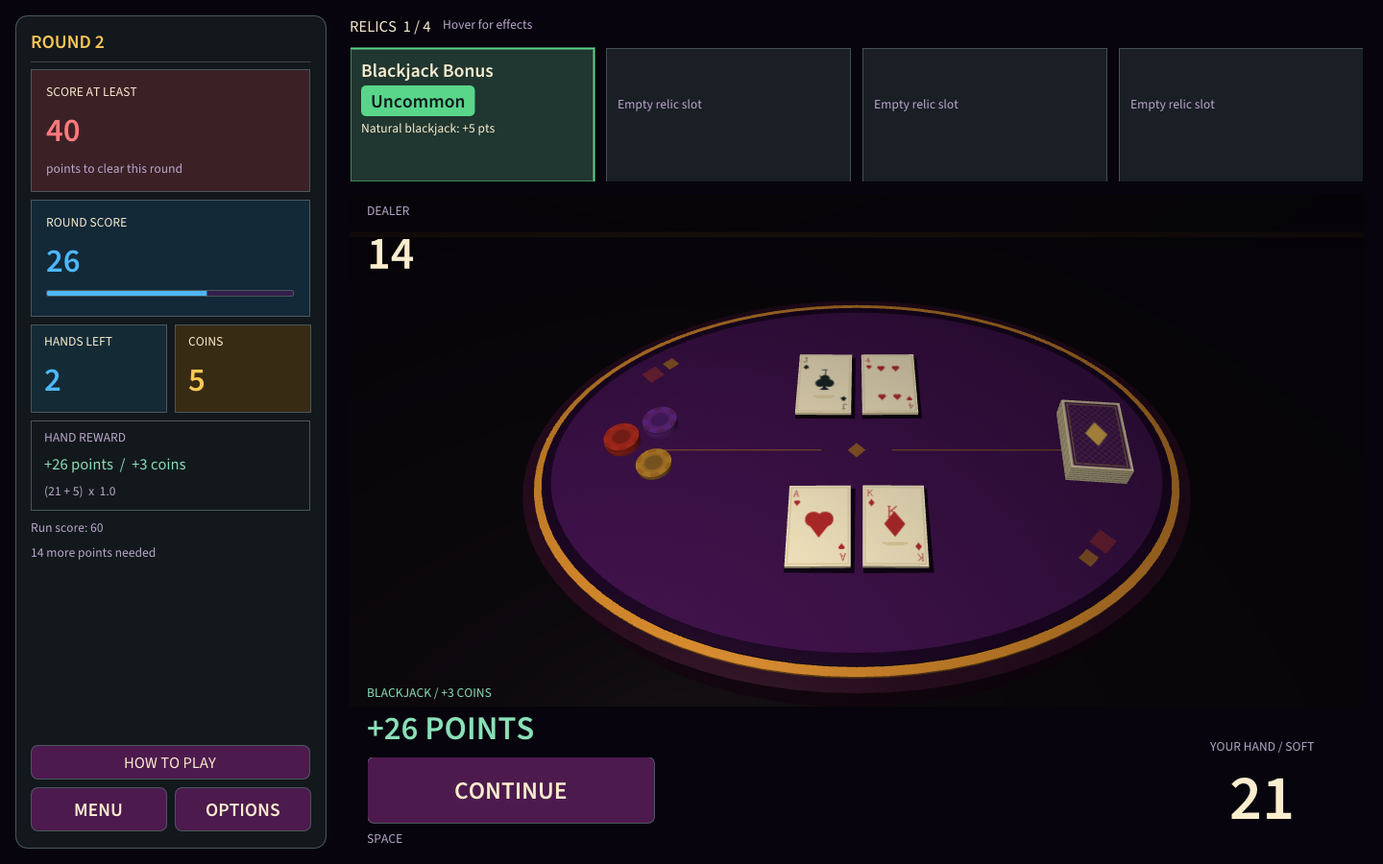
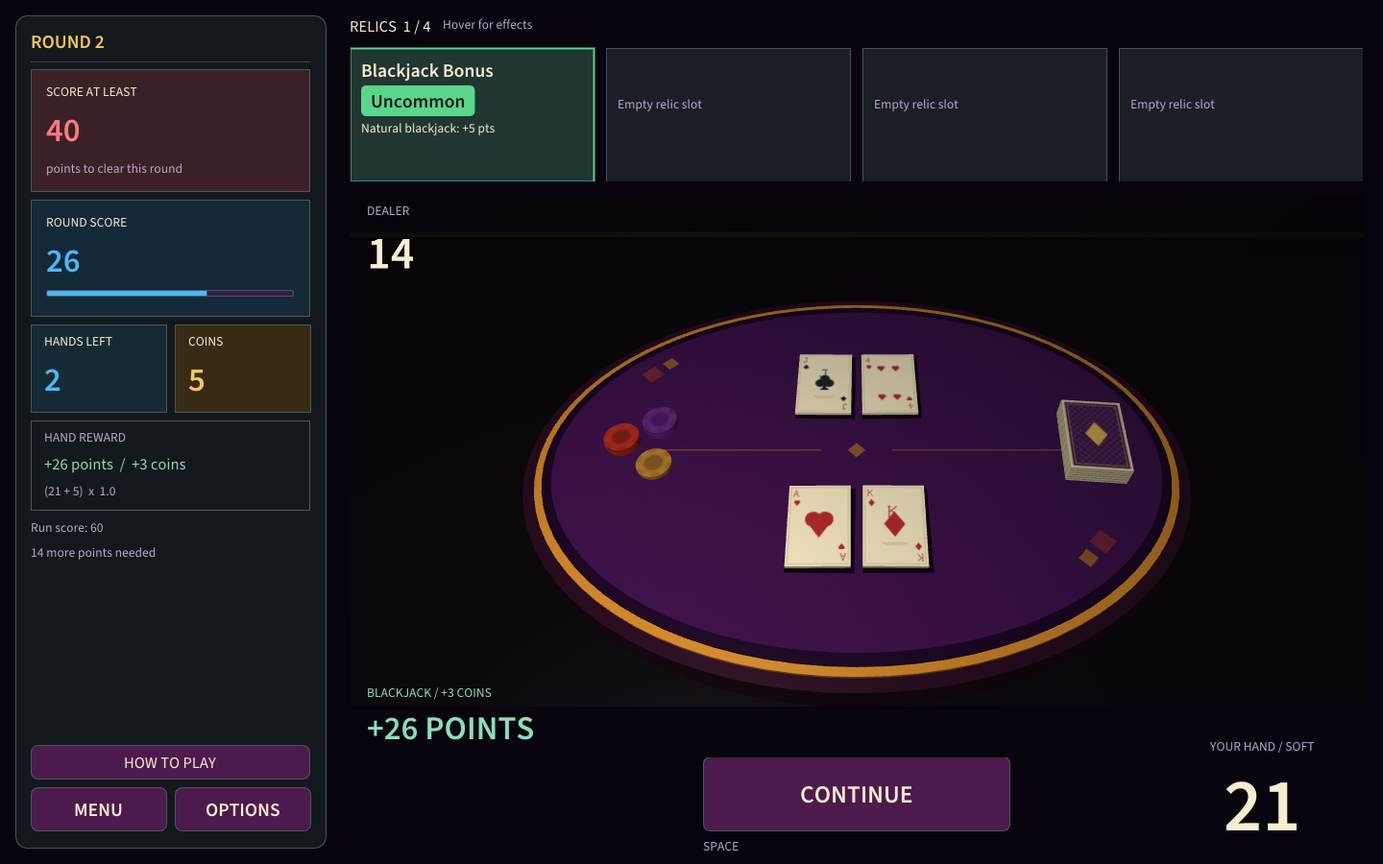
ui: center controls and simplify card gain feedback

Changed region(s): [[0.25, 0.8711, 0.75, 0.9956], [0.875, 0.9022, 0.9375, 0.9644]]

diff --git a/src/main.cpp b/src/main.cpp
@@ -198,7 +198,7 @@ struct Interface {
         button = io.Fonts->AddFontFromFileTTF(bold.c_str(), 26.0f, &font);
         menuButton = io.Fonts->AddFontFromFileTTF(bold.c_str(), 34.0f, &font);
         number = io.Fonts->AddFontFromFileTTF(bold.c_str(), 46.0f, &font);
-        largeNumber = io.Fonts->AddFontFromFileTTF(bold.c_str(), 88.0f, &font);
+        largeNumber = io.Fonts->AddFontFromFileTTF(bold.c_str(), 104.0f, &font);
         small = io.Fonts->AddFontFromFileTTF(body.c_str(), 18.0f, &font);
         if (!io.FontDefault || !heading || !title || !button || !menuButton || !number || !largeNumber || !small) {
             ImGui::DestroyContext();
@@ -475,8 +475,17 @@ TableLayout tableLayout(ImVec2 display) {
     return {sidebar, contentX, display.x - contentX - 20, 202, actionY - 212, actionY};
 }
 
+float controlsLeft(const TableLayout& layout) {
+    constexpr float width = 456;
+    const float tableCenter = layout.contentX + layout.contentWidth * .5f;
+    const float handCenter = layout.contentX + layout.contentWidth - 105;
+    // Leave room for two large hand digits at the minimum window width.
+    const float center = std::min(tableCenter, handCenter - 80 - width * .5f);
+    return center - width * .5f;
+}
+
 ImVec2 dealButtonCenter(const TableLayout& layout) {
-    return {layout.contentX + 168, layout.actionY + 77};
+    return {controlsLeft(layout) + 228, layout.actionY + 81};
 }
 
 void relicTooltip(const bj::RelicInfo& item, const Interface& ui) {
@@ -775,18 +784,11 @@ void centeredText(ImDrawList* draw, ImFont* font, float size, float centerX, flo
     draw->AddText(font, size, {centerX - width * .5f, y}, color, text.c_str());
 }
 
-std::string cardName(const bj::Card& card) {
-    const char* suits[] = {"Clubs", "Diamonds", "Hearts", "Spades"};
-    const std::string rank = card.rank == 1 ? "A" : card.rank == 11 ? "J" :
-        card.rank == 12 ? "Q" : card.rank == 13 ? "K" : std::to_string(card.rank);
-    return rank + " of " + suits[static_cast<int>(card.suit)];
-}
-
 void drawHandValue(const bj::Snapshot& state, const HandFeedback& feedback, const TableLayout& layout,
                    const Interface& ui) {
     const ImVec2 origin{layout.contentX + layout.contentWidth - 210, layout.actionY - 38};
     ImGui::PushStyleVar(ImGuiStyleVar_WindowPadding, {0, 0});
-    beginPanel("##hand-value", origin, {210, 180}, true, ImGuiWindowFlags_NoInputs);
+    beginPanel("##hand-value", origin, {210, 184}, true, ImGuiWindowFlags_NoInputs);
     auto* draw = ImGui::GetWindowDrawList();
     const float centerX = origin.x + 105;
     const auto hand = bj::evaluateHand(state.player);
@@ -798,17 +800,14 @@ void drawHandValue(const bj::Snapshot& state, const HandFeedback& feedback, cons
         const auto ink = ImGui::ColorConvertFloat4ToU32({cream.x, cream.y, cream.z, alpha});
         const bool redSuit = feedback.card.suit == bj::Suit::Hearts || feedback.card.suit == bj::Suit::Diamonds;
         const ImVec4 suit = redSuit ? red : cream;
-        draw->AddRectFilled({origin.x + 12, origin.y}, {origin.x + 198, origin.y + 56},
-            IM_COL32(14, 19, 26, static_cast<int>(225 * alpha)), 8);
         draw->AddText(ui.menuButton, 34, {left, origin.y}, ink, change.c_str());
-        presentation::drawCardSuit(draw, feedback.card.suit, {left + textWidth + 24, origin.y + 18}, 27,
+        presentation::drawCardSuit(draw, feedback.card.suit, {left + textWidth + 24, origin.y + 18}, 32,
             ImGui::ColorConvertFloat4ToU32({suit.x, suit.y, suit.z, alpha}));
-        centeredText(draw, ui.small, 18, centerX, origin.y + 35, ink, cardName(feedback.card));
     }
     const char* label = hand.bust ? "YOUR HAND / BUST" : hand.soft ? "YOUR HAND / SOFT" :
         state.phase == bj::Phase::Ready && !state.player.empty() ? "LAST HAND" : "YOUR HAND";
     centeredText(draw, ui.small, 18, centerX, origin.y + 60, ImGui::ColorConvertFloat4ToU32(muted), label);
-    centeredText(draw, ui.largeNumber, 88, centerX, origin.y + 78,
+    centeredText(draw, ui.largeNumber, 104, centerX, origin.y + 78,
         ImGui::ColorConvertFloat4ToU32(hand.bust ? red : cream),
         state.player.empty() ? "--" : std::to_string(hand.total));
     ImGui::End();
@@ -831,30 +830,32 @@ void drawTable(bj::Game& game, Commands& commands, Session& session, HandFeedbac
     drawSidebar(state, layout, session, commands, ui, display.y);
     drawRelicStrip(game, layout, ui);
     ImGui::PushStyleVar(ImGuiStyleVar_WindowPadding, {0, 0});
-    beginPanel("##actions", {layout.contentX + 18, layout.actionY + 42}, {440, 96}, true);
+    beginPanel("##actions", {controlsLeft(layout), layout.actionY + 42}, {460, 104}, true);
     ImGui::PushFont(ui.menuButton);
     ImGui::BeginDisabled(commands.blocked || commands.used);
     if (state.phase == bj::Phase::PlayerTurn) {
         ImGui::PushStyleColor(ImGuiCol_Button, {.08f, .35f, .30f, 1});
-        if (ImGui::Button("HIT", {176, 70})) commands.apply([&]() { return game.hit(); });
+        if (ImGui::Button("HIT", {190, 78})) commands.apply([&]() { return game.hit(); });
         ImGui::PopStyleColor();
-        ImGui::SameLine(192);
+        ImGui::SameLine(206);
         ImGui::PushStyleColor(ImGuiCol_Button, {.43f, .22f, .10f, 1});
-        if (ImGui::Button("STAND", {230, 70})) commands.apply([&]() { return game.stand(); });
+        if (ImGui::Button("STAND", {250, 78})) commands.apply([&]() { return game.stand(); });
         ImGui::PopStyleColor();
     } else if (state.phase == bj::Phase::Ready) {
-        if (ImGui::Button("DEAL HAND", {300, 70})) commands.apply([&]() { return game.deal(); });
+        ImGui::SetCursorPosX(68);
+        if (ImGui::Button("DEAL HAND", {320, 78})) commands.apply([&]() { return game.deal(); });
     } else if (state.phase == bj::Phase::RoundOver) {
-        if (ImGui::Button(state.roundScore >= state.goal ? "SHOP" : "CONTINUE", {300, 70}))
+        ImGui::SetCursorPosX(68);
+        if (ImGui::Button(state.roundScore >= state.goal ? "SHOP" : "CONTINUE", {320, 78}))
             commands.apply([&]() { return game.advance(); });
     }
     ImGui::EndDisabled();
     ImGui::PopFont();
     ImGui::PushFont(ui.small);
-    ImGui::SetCursorPos({0, 76});
+    ImGui::SetCursorPos({state.phase == bj::Phase::PlayerTurn ? 0.0f : 68.0f, 84});
     ImGui::TextColored(muted, "%s", state.phase == bj::Phase::PlayerTurn ? "H" : "SPACE");
     if (state.phase == bj::Phase::PlayerTurn) {
-        ImGui::SameLine(192);
+        ImGui::SameLine(206);
         ImGui::TextColored(muted, "SPACE / S");
     }
     ImGui::PopFont();

diff --git a/docs/HANDOFF_VSCODE.md b/docs/HANDOFF_VSCODE.md
@@ -7,7 +7,7 @@
 - Название **Jester Jack**. В меню увеличенный заголовок вверху слева, ниже слева три большие вертикальные кнопки START, OPTIONS, EXIT разных цветов. Справа увеличенное казино в три четверти вдоль дороги, при вечернем закатном освещении. Палитра фиолетовая, золотая, красная; английский UI использует Cormorant Garamond для заголовка и читаемый Source Sans 3 для основного текста/кнопок.
 - START запускает затемнение/проявление за 0,9 секунды и новый забег у стола в фазе `Ready`. Раздача начинается отдельной командой. В переходе ввод заблокирован, повторный старт не создаёт вторую игру.
 - Казино и интерьер создаются процедурно. Видимого персонажа дилера за столом нет, карты дилера сохраняются. Настройки камеры, освещения, текстур и фонового движения сохранены, стартовый переход можно выключить.
-- HUD: большая цель/очки и счётчики раздач/монет слева; увеличенный ряд из четырёх карточек активных улучшений с яркими бейджами редкости сверху; стол в центре справа. Внизу отдельные увеличенные HIT/STAND без сплошной панели. Текущая сумма руки крупно справа снизу, начисленные очки отдельно рядом; перебор сохраняет реальную красную сумму больше 21. После HIT над суммой примерно на 1,5 секунды показаны реальное изменение суммы с учётом туза и масть карты. Значение дилера крупно слева под улучшениями, с `+ ?` пока вторая карта закрыта. В магазине крупный баланс с иконкой монет. Полные правила - HOW TO PLAY. Ориентир компоновки - [официальные изображения Balatro](https://store.steampowered.com/app/2379780/Balatro/); его ресурсы в игру не включены.
+- HUD: большая цель/очки и счётчики раздач/монет слева; увеличенный ряд из четырёх карточек активных улучшений с яркими бейджами редкости сверху; стол в центре справа. По центру снизу игровой области отдельные HIT 190x78 / STAND 250x78. Текущая сумма руки шрифтом 104 справа снизу, начисленные очки отдельно рядом; перебор сохраняет реальную красную сумму больше 21. После HIT над суммой примерно на 1,5 секунды показаны только знак, реальная дельта с учётом туза и масть, без фона и названия карты. Значение дилера крупно слева под улучшениями, с `+ ?` пока вторая карта закрыта. В магазине крупный баланс с иконкой монет. Полные правила - HOW TO PLAY. Ориентир компоновки - [официальные изображения Balatro](https://store.steampowered.com/app/2379780/Balatro/); его ресурсы в игру не включены.
 - **Раздача** - одна рука против дилера; **раунд** - до пяти раздач с целью по очкам. Раунды бесконечны, без ставок и финальной победы. Цели: 30, 40, 50, 60, 70, 80, 90, 100, затем всегда 100. Дилер останавливается на 17.
 - Проигрыш руки даёт ноль и обрывает серию; ничья даёт ноль, сохраняя серию. После всех пяти раздач без цели автоматически появляется GAME OVER с RETRY, MAIN MENU, QUIT GAME. Проверка выполненной цели имеет приоритет: последняя успешная раздача позволяет перейти в магазин.
 - Каждая победная рука приносит 3 монеты и бонусы активных улучшений. Натуральный блэкджек без улучшений даёт 21 очко; Blackjack Bonus (Uncommon, 4 монеты) даёт +5 очков только за победный натуральный блэкджек. Precision даёт +5 очков/+1 монету за любую победу с 21. Очки идут к цели раунда и в общий результат забега. Магазин открывается только после выполнения цели: два стабильных случайных предложения из 13 улучшений. После магазина следующий раунд получает пять раздач и нулевой счёт раунда.

diff --git a/docs/ROADMAP.md b/docs/ROADMAP.md
@@ -7,7 +7,7 @@
 1. **Баланс.** Измерить частоту натурального блэкджека, длину забега и доход по разным seed/стратегиям. Проверить базовые 21 очко за натуральный блэкджек и отдельный Blackjack Bonus (+5 очков, Uncommon, цена 4), пять раздач на цель, рост цели от 30 до 100, цены 2/4/6/8/10, награду 3 монеты за победную руку, усиленные редкие эффекты и предел 4 активных. Веса пяти редкостей 50/28/14/6/2 проверять статистически с учётом доступного пула; не задавать гарантированную частоту редких предметов или исходов карт.
 2. **Анимации карт.** События раздачи и раскрытия, стабильные идентификаторы, сброс при restart/следующем раунде. Позиции и таймеры - в представлении, исходы и порядок карт одинаковы с анимацией и без неё. Стартовое затемнение уже существует и проверяется отдельно.
 3. **Кастомный звук и саундтреки.** Получить материалы команды, сохранить авторство и разрешения, добавить громкость. Звук не должен влиять на RNG или правила; сейчас аудио не реализовано.
-4. **Оформление и удобство.** Проверять крупный классический заголовок, читаемый Source Sans 3, левую панель цели/счёта, четыре карточки улучшений сверху и отдельный viewport стола в центре справа. Отдельно проверять увеличенные HIT/STAND, постоянную сумму руки справа снизу, красную сумму перебора, отдельные начисленные очки и краткую подсказку изменения суммы/масти после HIT с пересчётом туза. Проверять значение дилера с `+ ?`, цветовые метки редкости и наград, HOW TO PLAY, магазин, настройки, размер окна и DPI. Проверять Space как основное действие во всех фазах, Enter для выделенной кнопки и автоматический GAME OVER после невыполненной цели.
+4. **Оформление и удобство.** Проверять крупный классический заголовок, читаемый Source Sans 3, левую панель цели/счёта, четыре карточки улучшений сверху и отдельный viewport стола в центре справа. Отдельно проверять HIT 190x78 / STAND 250x78 по центру снизу игровой области, постоянную сумму руки шрифтом 104 справа снизу, красную сумму перебора, отдельные начисленные очки и подсказку только знака/дельты/масти после HIT (~1,5 с, без фона и названия карты) с пересчётом туза. Проверять значение дилера с `+ ?`, цветовые метки редкости и наград, HOW TO PLAY, магазин, настройки, размер окна и DPI. Проверять Space как основное действие во всех фазах, Enter для выделенной кнопки и автоматический GAME OVER после невыполненной цели.
 5. **Переносимость.** Чистая сборка и запуск на другой машине и машине преподавателя, сохранность `assets/` и лицензий рядом с executable.
 
 Следующая задача определяется текущим запросом команды. Сеть, игровой движок и большая система режимов в объём стартового прототипа не входят.

diff --git a/docs/LECTURE_ALIGNMENT.md b/docs/LECTURE_ALIGNMENT.md
@@ -11,7 +11,7 @@
 | Камера и перспектива | `L-5-1_Viewing.pdf`, стр. 3, 11-12, 43, 46: камера, LookAt, поле зрения, aspect, near/far и итоговое преобразование вершины | Камера GLM `lookAt`, перспективная проекция с отношением сторон выделенной области стола, корректировка нормированного viewport при изменении размера. |
 | Освещение | `L-5-2_Shading.pdf`, стр. 14, 29, 42, 58, 66-70: ambient/diffuse/specular, halfway vector Blinn, нормализация, расчёт освещения на фрагмент | Blinn-Phong в собственном фрагментном шейдере, направление света и камеры. При неравномерном масштабе сохраняется корректная матрица нормалей. |
 | Текстуры | `L-8_TextureMapping.pdf`, стр. 24-25, 43-47: изображение texels, загрузка текстуры, UV, sampler и выборка во фрагментном шейдере | Процедурные изображения карт загружаются в `GL_TEXTURE_2D`; координаты UV передаются через вершины, текстура читается шейдером. |
-| Интерактивность и окно | `L-3-1_Input.pdf`, стр. 14-15, 24, 39: события мыши/клавиатуры, меню и изменение размера | GLFW и ImGui обрабатывают START/OPTIONS/EXIT, отдельные HIT/STAND и игровые команды; суммы рук, перебор и краткая подсказка после HIT обновляются по результату команды. Изменение окна обновляет отрисовку. |
+| Интерактивность и окно | `L-3-1_Input.pdf`, стр. 14-15, 24, 39: события мыши/клавиатуры, меню и изменение размера | GLFW и ImGui обрабатывают START/OPTIONS/EXIT, отдельные HIT/STAND по центру снизу и игровые команды; суммы рук, перебор и текстовая подсказка знака/дельты/масти после HIT обновляются по результату команды. Изменение окна обновляет отрисовку. |
 
 В лекциях есть исторические примеры GLUT, `glMatrixMode`, `glEnable(GL_TEXTURE_2D)`, `gl_FragColor` и `texture2D`. Это учебный контекст старых API. Проект сохраняет **C++17, OpenGL 3.3 Core, GLSL 330 и CMake 3.24+**, собственные матрицы и актуальные для Core вызовы. Пример с `GL_TRUE` при передаче матриц связан с форматом хранения матриц в учебном `mat.h`; его нельзя механически переносить на GLM, использующий столбцовый порядок.
 

diff --git a/docs/VERIFICATION.md b/docs/VERIFICATION.md
@@ -1,5 +1,16 @@
 # Проверка Jester Jack
 
+## Последняя компоновка — 16 октября 2026
+
+HIT и STAND увеличены до 190×78 и 250×78 и размещены по центру внизу игровой области; на узком окне сохранён зазор до счёта справа. DEAL/CONTINUE/SHOP используют тот же центр. Сумма руки увеличена с 88 до 104. Уведомление новой карты теперь содержит только знаковую дельту и масть, без фона и названия. Правила и случайность в этой правке не менялись.
+
+- `cmake --preset desktop`, `cmake --build --preset desktop --parallel`, `ctest --preset desktop` — успешно в Debug, CTest 10,20 с.
+- `--smoke --frames 1200 --capture-states build/verification/final-ui` — успешно, без ошибок OpenGL. Проверки мыши/Space после перемещения кнопок сохранены.
+- Просмотрены кадры 1100×720 и 1440×900: HIT/STAND, крупная сумма, перебор 23, простое `+7` с пикой и пересчёт туза `+0`. Текст и кнопки не пересекаются.
+- Последний `src/main.cpp` сохранён в `C:\Users\erkin\Desktop\Jester Jack` после проверки отсутствия местных правок. Из этой папки собраны Release, CTest (0,97 с) и 1 200 кадров smoke — успешно. Сборка сохранена как `JesterJack.exe`; seed 74 повторно подтверждает руку 21 и награду 26 с Blackjack Bonus.
+
+Проверено в прежнем Windows/MSVC 19.51/Intel OpenGL 3.3 окружении. Другие ОС и видеокарты здесь не проверялись. Копия для показа сохраняет исходники, ресурсы, короткий README и лицензии. Следующие записи относятся к предыдущим версиям.
+
 ## Очки руки и блэкджека — 16 октября 2026
 
 Натуральный блэкджек без улучшений теперь даёт 21 очко. Автоматические +10 убраны. Добавлен Blackjack Bonus: Uncommon, цена 4 монеты, +5 очков только за победу с натуральным блэкджеком. Precision и остальные бонусы сохраняются, применяются до множителя Streak. Каталог содержит 13 улучшений; генератор карт не изменён.
